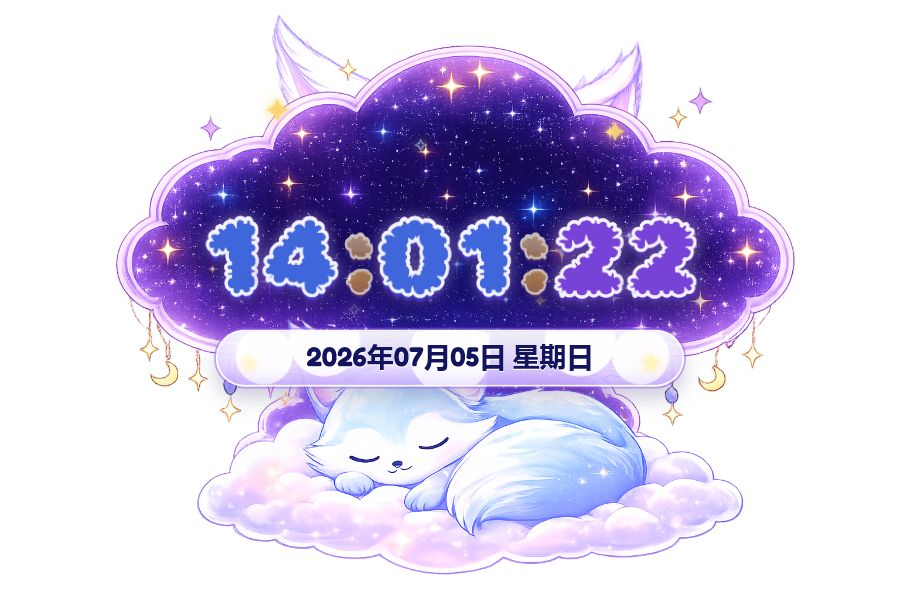
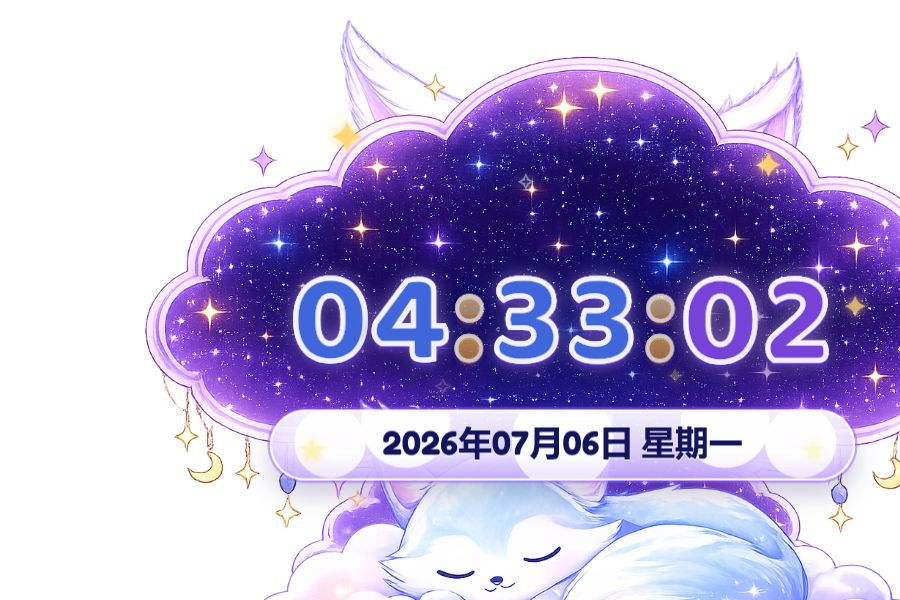
Use smoother clock font and preserve animation state

diff --git a/js/clock.js b/js/clock.js
@@ -2,6 +2,7 @@ const timeElement = document.getElementById("time");
 const dateElement = document.getElementById("date");
 
 const chineseWeekdays = ["星期日", "星期一", "星期二", "星期三", "星期四", "星期五", "星期六"];
+const timeCharacterCount = 8;
 
 const beijingDateFormatter = new Intl.DateTimeFormat("zh-CN", {
   timeZone: "Asia/Shanghai",
@@ -20,15 +21,30 @@ function getPart(parts, type) {
   return parts.find((part) => part.type === type)?.value || "";
 }
 
-function renderBalloonTime(timeText) {
+function initializeTimeCharacters() {
+  if (timeElement.children.length === timeCharacterCount) {
+    return;
+  }
+
   timeElement.innerHTML = "";
 
-  Array.from(timeText).forEach((character, index) => {
+  for (let index = 0; index < timeCharacterCount; index += 1) {
     const span = document.createElement("span");
-    span.className = character === ":" ? "char colon" : "char";
+    span.className = index === 2 || index === 5 ? "char colon" : "char";
     span.style.setProperty("--i", index);
-    span.textContent = character;
+    span.textContent = index === 2 || index === 5 ? ":" : "0";
     timeElement.appendChild(span);
+  }
+}
+
+function renderBalloonTime(timeText) {
+  initializeTimeCharacters();
+
+  Array.from(timeText).forEach((character, index) => {
+    const span = timeElement.children[index];
+    if (span && span.textContent !== character) {
+      span.textContent = character;
+    }
   });
 }
 

diff --git a/css/style.css b/css/style.css
@@ -26,9 +26,9 @@
 }
 
 @font-face {
-  font-family: "Rubik Bubbles Local";
-  src: url("../assets/fonts/RubikBubbles-Regular.ttf") format("truetype");
-  font-weight: 400;
+  font-family: "Baloo 2 Local";
+  src: url("../assets/fonts/Baloo2-Variable.ttf") format("truetype");
+  font-weight: 400 800;
   font-style: normal;
   font-display: swap;
 }
@@ -149,9 +149,9 @@ body {
   min-width: 690px;
   min-height: 116px;
   padding: 0 14px 8px;
-  font-family: "Rubik Bubbles Local", "Fredoka Local", "Microsoft YaHei UI", sans-serif;
+  font-family: "Baloo 2 Local", "Fredoka Local", "Microsoft YaHei UI", sans-serif;
   font-size: var(--time-size);
-  font-weight: 400;
+  font-weight: 800;
   line-height: 1;
   letter-spacing: 0;
   filter:
@@ -161,7 +161,7 @@ body {
 
 .time .char {
   display: inline-block;
-  min-width: .61em;
+  min-width: .57em;
   text-align: center;
   color: transparent;
   background:
@@ -170,7 +170,7 @@ body {
     linear-gradient(180deg, #ffffff 0%, #dcecff 23%, var(--bubble-blue) 58%, var(--bubble-purple) 100%);
   -webkit-background-clip: text;
   background-clip: text;
-  -webkit-text-stroke: 3px rgba(247, 244, 255, .98);
+  -webkit-text-stroke: 4px rgba(247, 244, 255, .98);
   text-shadow:
     0 2px 0 #3f66da,
     0 5px 0 rgba(82, 48, 196, .62),
@@ -195,14 +195,14 @@ body {
 }
 
 .time .colon {
-  min-width: .32em;
-  margin: 0 .02em;
+  min-width: .25em;
+  margin: 0 .035em;
   background:
     radial-gradient(circle at 50% 31%, #fff8ce 0 18%, transparent 19%),
     linear-gradient(180deg, #fff5bb, #ffd46d 58%, #f1a54b);
   -webkit-background-clip: text;
   background-clip: text;
-  -webkit-text-stroke: 2px rgba(255, 249, 220, .96);
+  -webkit-text-stroke: 3px rgba(255, 249, 220, .96);
   text-shadow:
     0 3px 0 rgba(176, 109, 30, .48),
     0 9px 14px rgba(15, 6, 60, .34);

diff --git a/README.md b/README.md
@@ -79,7 +79,7 @@ VTube Studio：
 - `ear_right.png`
 - `fox_front.png`
 
-四张图会按同一画布坐标叠放。字体文件位于 `assets/fonts`。当前使用 `RubikBubbles-Regular.ttf` 作为气球数字字体，使用 `Fredoka-Variable.ttf` 作为日期和 fallback 字体，CSS 中已用 `@font-face` 引入。如需替换字体，把新的可商用字体文件放入 `assets/fonts`，再修改 `css/style.css` 中的 `@font-face` 路径和字体名。
+四张图会按同一画布坐标叠放。字体文件位于 `assets/fonts`。当前使用 `Baloo2-Variable.ttf` 作为更圆润的气球数字字体，使用 `Fredoka-Variable.ttf` 作为日期和 fallback 字体，CSS 中已用 `@font-face` 引入。如需替换字体，把新的可商用字体文件放入 `assets/fonts`，再修改 `css/style.css` 中的 `@font-face` 路径和字体名。
 
 ## 如何确认透明背景
 
@@ -107,14 +107,14 @@ background: transparent;
 
 本项目内置两款 Google Fonts 字体：
 
-Rubik Bubbles：
+Baloo 2：
 
-- 用途：时间数字的气球泡泡字体
+- 用途：时间数字的圆润气球字体
 - 来源：Google Fonts
 - 授权：SIL Open Font License 1.1
 - 可免费商用
-- 官方页面：https://fonts.google.com/specimen/Rubik+Bubbles
-- 源码仓库：https://github.com/google/fonts/tree/main/ofl/rubikbubbles
+- 官方页面：https://fonts.google.com/specimen/Baloo+2
+- 源码仓库：https://github.com/google/fonts/tree/main/ofl/baloo2
 
 Fredoka：
 

diff --git a/assets/README-assets.md b/assets/README-assets.md
@@ -11,14 +11,14 @@
 - 官方页面：https://fonts.google.com/specimen/Fredoka
 - 源码仓库：https://github.com/google/fonts/tree/main/ofl/fredoka
 
-- `fonts/RubikBubbles-Regular.ttf`
-- 字体名称：Rubik Bubbles
+- `fonts/Baloo2-Variable.ttf`
+- 字体名称：Baloo 2
 - 来源：Google Fonts / google/fonts
 - 授权：SIL Open Font License 1.1，可免费商用、修改和再分发
-- 官方页面：https://fonts.google.com/specimen/Rubik+Bubbles
-- 源码仓库：https://github.com/google/fonts/tree/main/ofl/rubikbubbles
+- 官方页面：https://fonts.google.com/specimen/Baloo+2
+- 源码仓库：https://github.com/google/fonts/tree/main/ofl/baloo2
 
-CSS 已通过 `@font-face` 引入以上字体，项目离线打开即可使用。其中 Rubik Bubbles 用于气球数字，Fredoka 用于日期和 fallback。
+CSS 已通过 `@font-face` 引入以上字体，项目离线打开即可使用。其中 Baloo 2 用于气球数字，Fredoka 用于日期和 fallback。
 
 ## 视觉资产
 